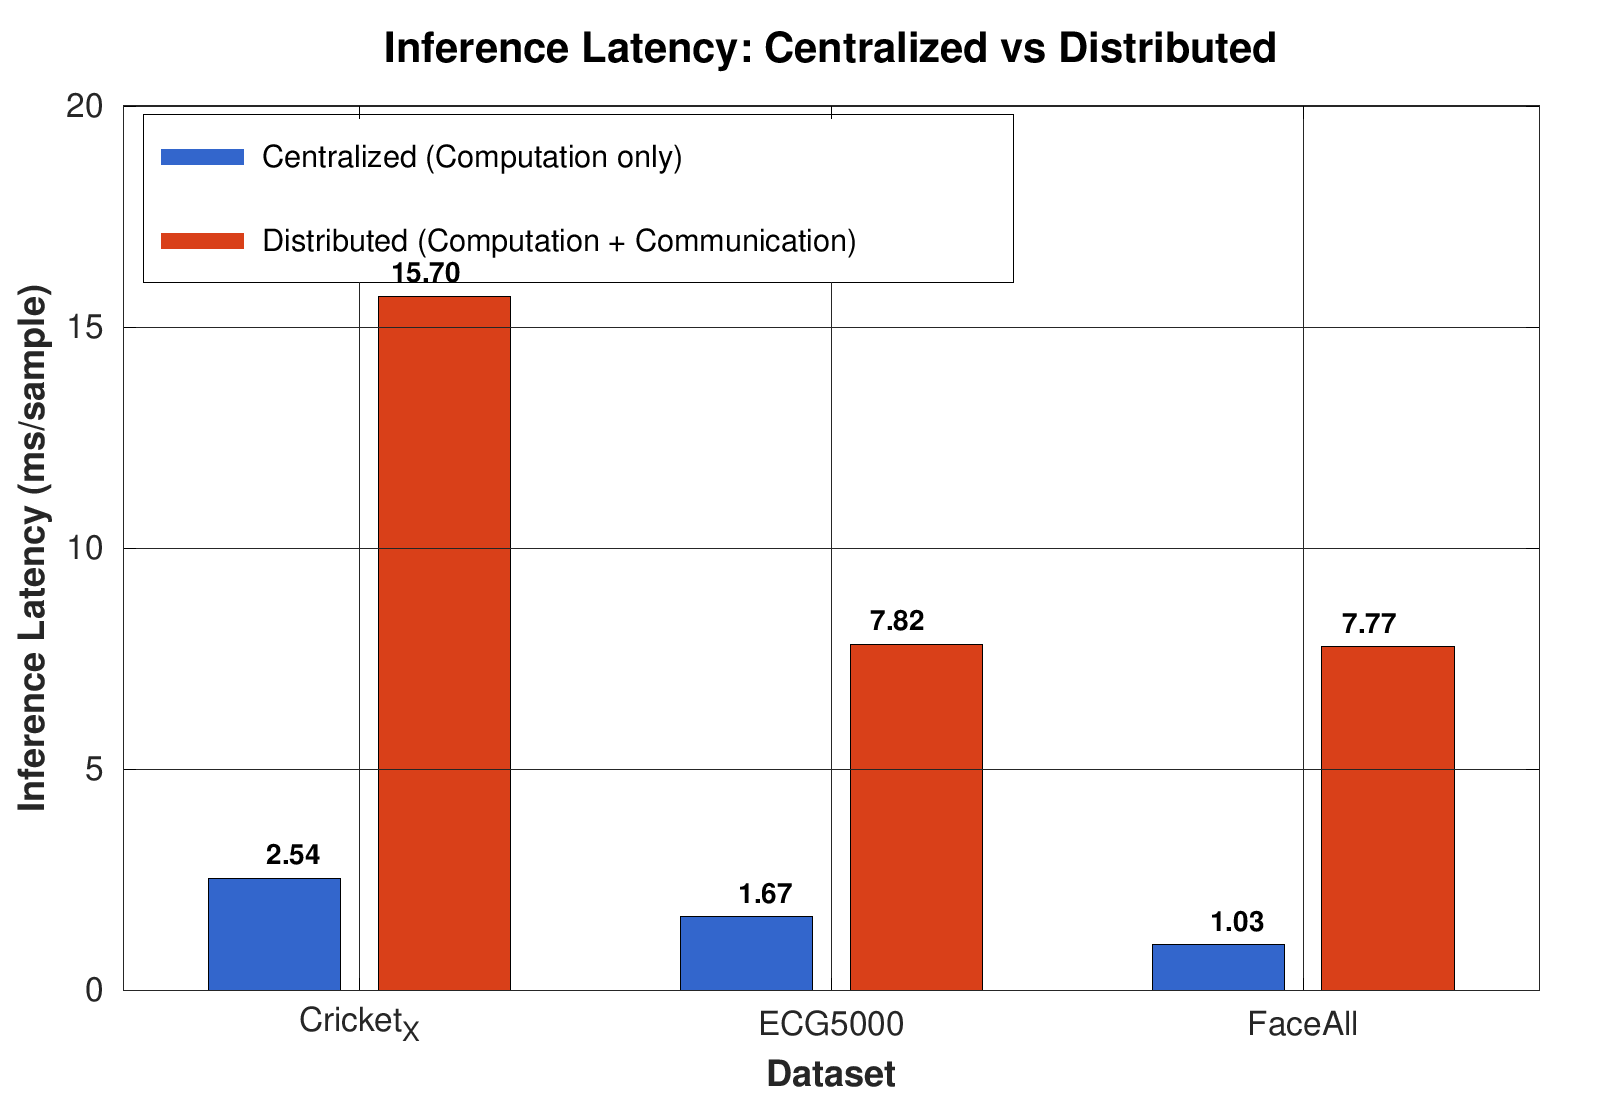
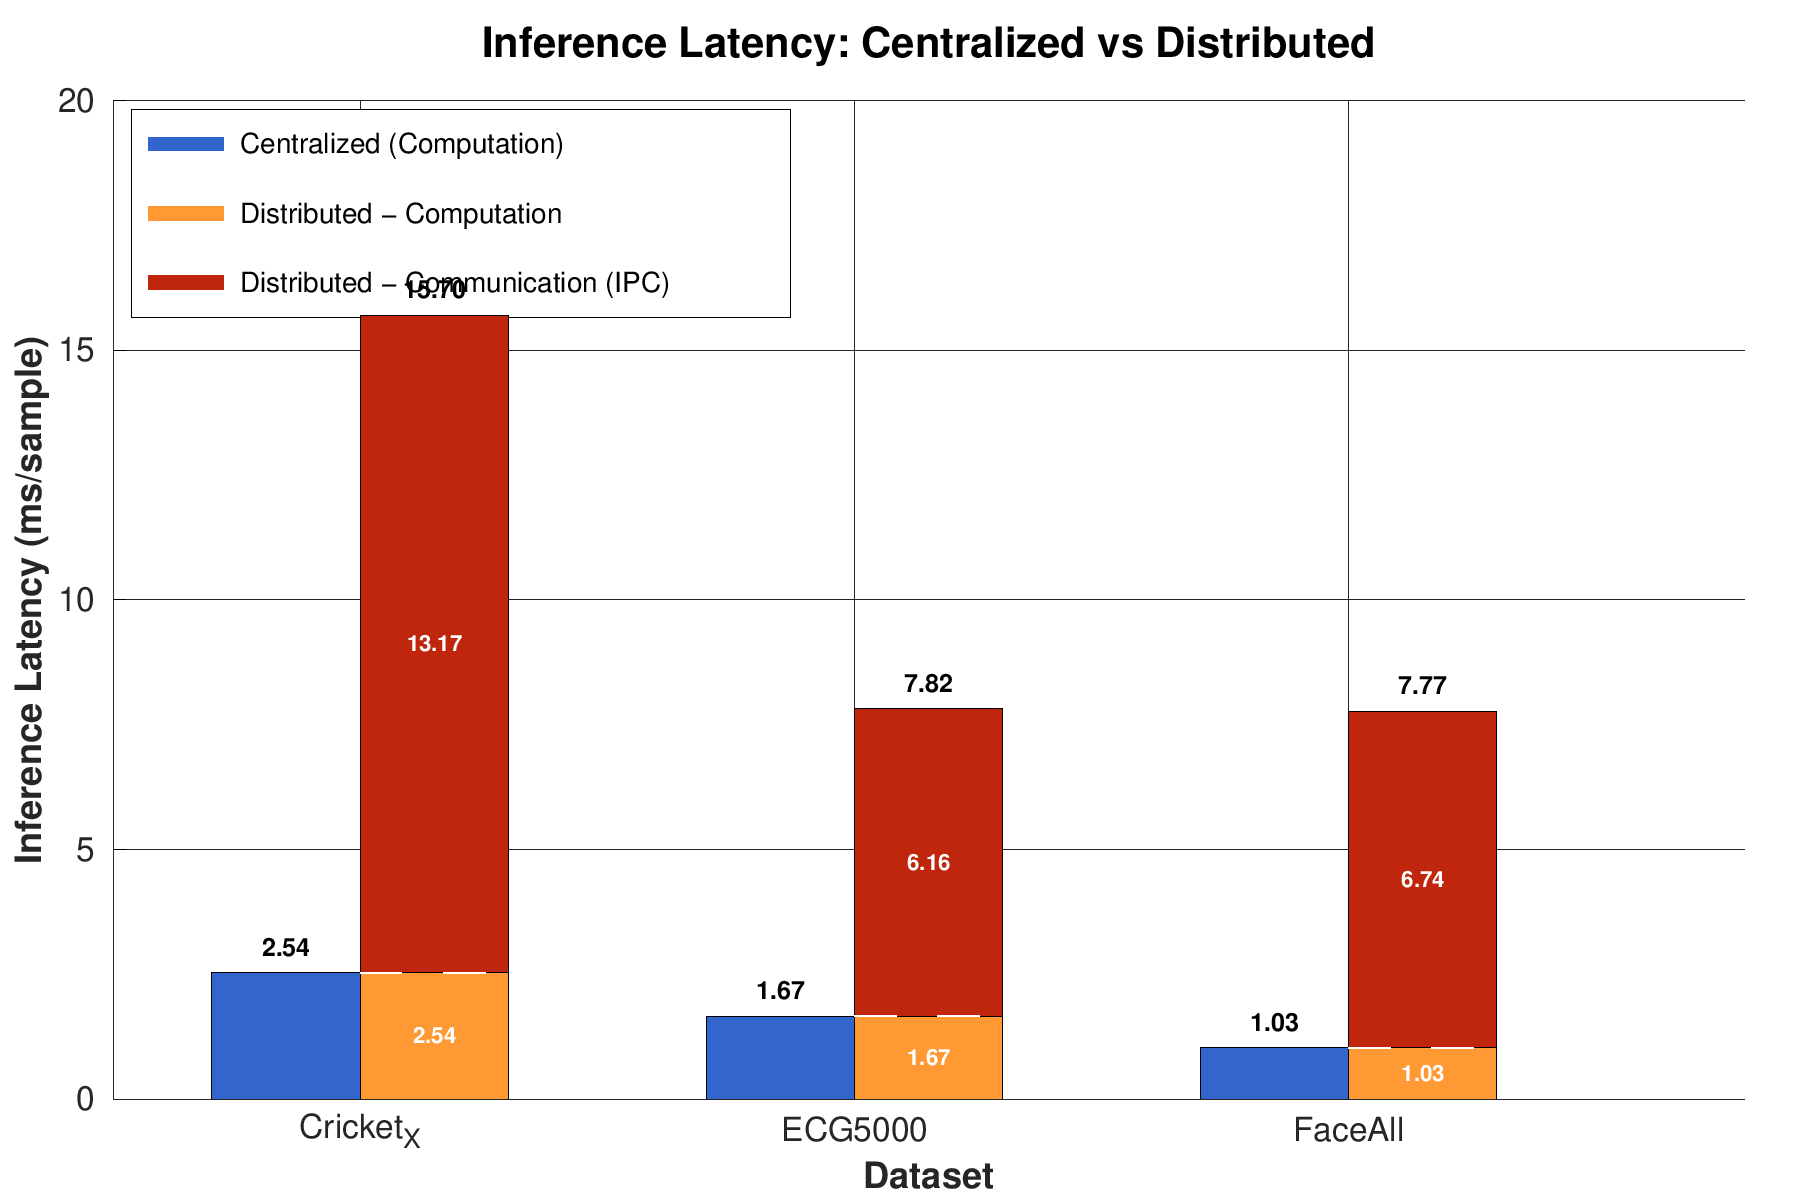
Bifurcate distributed inference latency bar into computation vs communication
- Distributed bar now shows stacked segments:
  * Bottom (orange): computation latency (same CNN FLOPs as centralized)
  * Top (dark red): communication overhead (IPC/shared-memory)
  * White dashed line at the boundary
- Value labels inside each segment + total on top
- Updated both plot_all.py (matplotlib) and plot_inference_latency.m (Octave)
- Regenerated inference_latency.png

diff --git a/plotting/plot_inference_latency.m b/plotting/plot_inference_latency.m
@@ -1,7 +1,9 @@
 %% plot_inference_latency.m
 %  Plot (b): Inference Latency — Grouped bar chart
-%  For Centralized: computation latency only
-%  For Distributed: computation + communication (full pipeline latency)
+%  Centralized: single solid bar (computation only)
+%  Distributed: stacked bar (computation + communication overhead)
+%    Computation portion  = centralized latency (same CNN FLOPs)
+%    Communication portion = distributed_total - centralized
 %
 %  Reads: results/csv/inference_latency.csv
 %  Format: dataset, centralized_ms, distributed_ms
@@ -19,9 +21,8 @@ if ~exist(csv_file, 'file')
     error('CSV file not found: %s\nRun parse_results.py first.', csv_file);
 end
 
-% Read CSV (skip header): col1=dataset(text), col2=centralized_ms, col3=distributed_ms
 fid = fopen(csv_file, 'r');
-header = fgetl(fid);  % skip header
+header = fgetl(fid);
 raw = textscan(fid, '%s%f%f', 'Delimiter', ',');
 fclose(fid);
 
@@ -30,39 +31,80 @@ cent_ms   = raw{2};
 dist_ms   = raw{3};
 n = numel(ds_labels);
 
+% Communication = pipeline latency - computation
+comp_ms = cent_ms;                % computation same as centralized
+comm_ms = dist_ms - cent_ms;      % IPC / shared-memory overhead
+
 for i = 1:n
     ds_labels{i} = strrep(ds_labels{i}, '_', '\_');
 end
 
-data = [cent_ms, dist_ms];
-
 hf = figure();
-set(hf, 'PaperPositionMode', 'auto', 'Position', [150, 150, 800, 550]);
+set(hf, 'PaperPositionMode', 'auto', 'Position', [150, 150, 900, 600]);
 
-b = bar(data, 'grouped');
-set(b(1), 'FaceColor', [0.2, 0.4, 0.8]);   % Blue for centralized
-set(b(2), 'FaceColor', [0.85, 0.25, 0.1]);  % Red for distributed
+% --- Centralized bars (left group) ---
+bar_w = 0.3;
+x = (1:n)';
+hold on;
 
-set(gca, 'XTickLabel', ds_labels, 'FontSize', 12);
+% Centralized: solid blue bar
+for i = 1:n
+    fill([x(i)-bar_w x(i) x(i) x(i)-bar_w], [0 0 cent_ms(i) cent_ms(i)], ...
+         [0.2 0.4 0.8], 'EdgeColor', 'k', 'LineWidth', 0.5);
+end
+
+% Distributed: stacked bar (computation bottom, communication top)
+for i = 1:n
+    % Computation portion (orange)
+    fill([x(i) x(i)+bar_w x(i)+bar_w x(i)], [0 0 comp_ms(i) comp_ms(i)], ...
+         [1.0 0.6 0.2], 'EdgeColor', 'k', 'LineWidth', 0.5);
+    % Communication portion (dark red) stacked on top
+    fill([x(i) x(i)+bar_w x(i)+bar_w x(i)], ...
+         [comp_ms(i) comp_ms(i) comp_ms(i)+comm_ms(i) comp_ms(i)+comm_ms(i)], ...
+         [0.75 0.15 0.05], 'EdgeColor', 'k', 'LineWidth', 0.5);
+    % Dashed line at the cut between computation and communication
+    plot([x(i) x(i)+bar_w], [comp_ms(i) comp_ms(i)], 'w--', 'LineWidth', 1.5);
+end
+
+hold off;
+
+set(gca, 'XTick', x, 'XTickLabel', ds_labels, 'FontSize', 12);
+xlim([0.5, n+0.5+bar_w]);
 xlabel('Dataset', 'FontSize', 13, 'FontWeight', 'bold');
 ylabel('Inference Latency (ms/sample)', 'FontSize', 13, 'FontWeight', 'bold');
 title('Inference Latency: Centralized vs Distributed', ...
       'FontSize', 15, 'FontWeight', 'bold');
-legend({'Centralized (Computation only)', ...
-        'Distributed (Computation + Communication)'}, ...
-       'Location', 'northwest', 'FontSize', 11);
+
+% Dummy invisible plots for legend entries
+hold on;
+h1 = fill([0 0 0 0], [0 0 0 0], [0.2 0.4 0.8]);
+h2 = fill([0 0 0 0], [0 0 0 0], [1.0 0.6 0.2]);
+h3 = fill([0 0 0 0], [0 0 0 0], [0.75 0.15 0.05]);
+legend([h1 h2 h3], {'Centralized (Computation)', ...
+                    'Distributed - Computation', ...
+                    'Distributed - Communication (IPC)'}, ...
+       'Location', 'northwest', 'FontSize', 10);
+hold off;
 grid on;
 
-% Value labels on bars (Octave-compatible positioning)
+% Value labels
 for i = 1:n
-    % Centralized bar (left of center)
-    text(i - 0.14, cent_ms(i) + 0.15, sprintf('%.2f', cent_ms(i)), ...
+    % Centralized total
+    text(x(i)-bar_w/2, cent_ms(i)+0.2, sprintf('%.2f', cent_ms(i)), ...
          'HorizontalAlignment', 'center', 'VerticalAlignment', 'bottom', ...
-         'FontSize', 10, 'FontWeight', 'bold');
-    % Distributed bar (right of center)
-    text(i + 0.14, dist_ms(i) + 0.15, sprintf('%.2f', dist_ms(i)), ...
+         'FontSize', 9, 'FontWeight', 'bold');
+    % Distributed: computation portion
+    text(x(i)+bar_w/2, comp_ms(i)/2, sprintf('%.2f', comp_ms(i)), ...
+         'HorizontalAlignment', 'center', 'VerticalAlignment', 'middle', ...
+         'FontSize', 8, 'FontWeight', 'bold', 'Color', 'w');
+    % Distributed: communication portion
+    text(x(i)+bar_w/2, comp_ms(i)+comm_ms(i)/2, sprintf('%.2f', comm_ms(i)), ...
+         'HorizontalAlignment', 'center', 'VerticalAlignment', 'middle', ...
+         'FontSize', 8, 'FontWeight', 'bold', 'Color', 'w');
+    % Distributed: total on top
+    text(x(i)+bar_w/2, dist_ms(i)+0.2, sprintf('%.2f', dist_ms(i)), ...
          'HorizontalAlignment', 'center', 'VerticalAlignment', 'bottom', ...
-         'FontSize', 10, 'FontWeight', 'bold');
+         'FontSize', 9, 'FontWeight', 'bold');
 end
 
 out_png = fullfile('..', 'results', 'inference_latency.png');

diff --git a/plotting/plot_all.py b/plotting/plot_all.py
@@ -93,23 +93,54 @@ def plot_inference_latency():
     rows = read_csv(csv_file)
 
     ds_labels = [r['dataset'].replace('_', ' ') for r in rows]
-    cent = [float(r['centralized_ms']) for r in rows]
-    dist = [float(r['distributed_ms']) for r in rows]
+    cent = np.array([float(r['centralized_ms']) for r in rows])
+    dist = np.array([float(r['distributed_ms']) for r in rows])
+
+    # Distributed bar split: computation = centralized latency, communication = remainder
+    dist_comp = cent.copy()         # same CNN FLOPs
+    dist_comm = dist - cent          # IPC / shared-memory overhead
 
     x = np.arange(len(ds_labels))
     width = 0.32
 
-    fig, ax = plt.subplots(figsize=(9, 5.5))
-    b1 = ax.bar(x - width/2, cent, width, color=BLUE, label='Centralized (Computation only)')
-    b2 = ax.bar(x + width/2, dist, width, color=RED,  label='Distributed (Computation + Communication)')
+    fig, ax = plt.subplots(figsize=(10, 6))
 
-    # Value labels on top of bars
-    for bar_group in [b1, b2]:
-        for bar in bar_group:
-            h = bar.get_height()
-            ax.text(bar.get_x() + bar.get_width()/2, h + 0.15,
-                    f'{h:.2f}', ha='center', va='bottom',
-                    fontsize=10, fontweight='bold')
+    # Centralized: solid blue bar
+    b_cent = ax.bar(x - width/2, cent, width, color=BLUE,
+                    edgecolor='black', linewidth=0.5,
+                    label='Centralized (Computation)')
+
+    # Distributed: stacked bar -- computation (orange) + communication (dark red)
+    ORANGE = '#FF9933'
+    DARK_RED = '#BF2606'
+    b_comp = ax.bar(x + width/2, dist_comp, width, color=ORANGE,
+                    edgecolor='black', linewidth=0.5,
+                    label='Distributed - Computation')
+    b_comm = ax.bar(x + width/2, dist_comm, width, bottom=dist_comp,
+                    color=DARK_RED, edgecolor='black', linewidth=0.5,
+                    label='Distributed - Communication (IPC)')
+
+    # Dashed white line at the cut between computation and communication
+    for i in range(len(x)):
+        bx = b_comp[i].get_x()
+        bw = b_comp[i].get_width()
+        ax.plot([bx, bx + bw], [dist_comp[i], dist_comp[i]],
+                'w--', linewidth=1.5, zorder=5)
+
+    # --- Value labels ---
+    for i in range(len(x)):
+        # Centralized total on top
+        ax.text(x[i] - width/2, cent[i] + 0.2, f'{cent[i]:.2f}',
+                ha='center', va='bottom', fontsize=9.5, fontweight='bold')
+        # Distributed computation (inside lower section)
+        ax.text(x[i] + width/2, dist_comp[i]/2, f'{dist_comp[i]:.2f}',
+                ha='center', va='center', fontsize=8.5, fontweight='bold', color='white')
+        # Distributed communication (inside upper section)
+        ax.text(x[i] + width/2, dist_comp[i] + dist_comm[i]/2, f'{dist_comm[i]:.2f}',
+                ha='center', va='center', fontsize=8.5, fontweight='bold', color='white')
+        # Distributed total on top
+        ax.text(x[i] + width/2, dist[i] + 0.2, f'{dist[i]:.2f}',
+                ha='center', va='bottom', fontsize=9.5, fontweight='bold')
 
     ax.set_xticks(x)
     ax.set_xticklabels(ds_labels, fontsize=12)
@@ -117,7 +148,7 @@ def plot_inference_latency():
     ax.set_ylabel('Inference Latency (ms/sample)', fontsize=13, fontweight='bold')
     ax.set_title('Inference Latency: Centralized vs Distributed',
                  fontsize=15, fontweight='bold')
-    ax.legend(loc='upper left', fontsize=11, framealpha=0.9)
+    ax.legend(loc='upper left', fontsize=10, framealpha=0.9)
     ax.grid(True, axis='y', alpha=0.3)
     ax.tick_params(labelsize=11)
 
